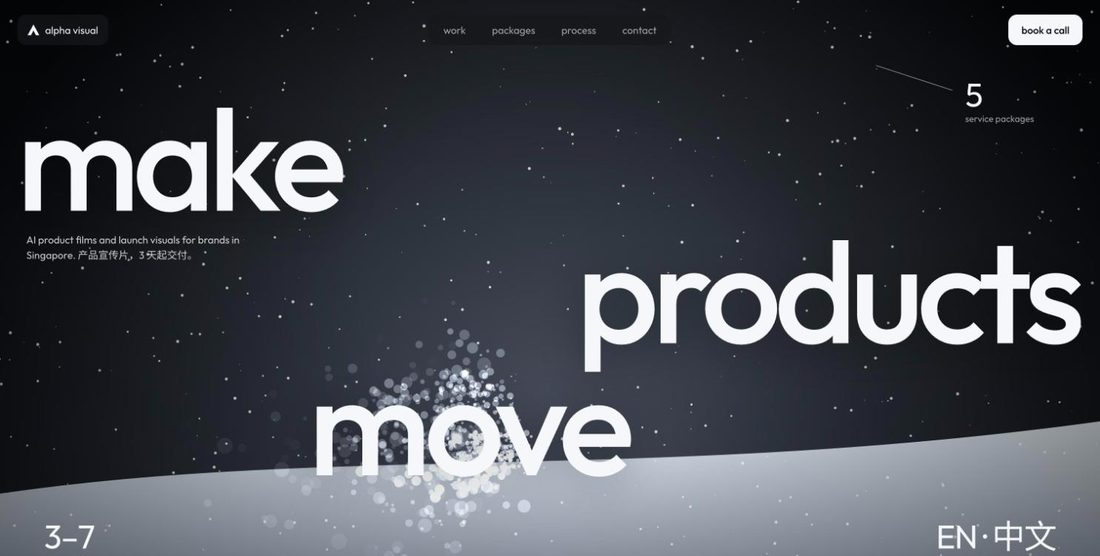
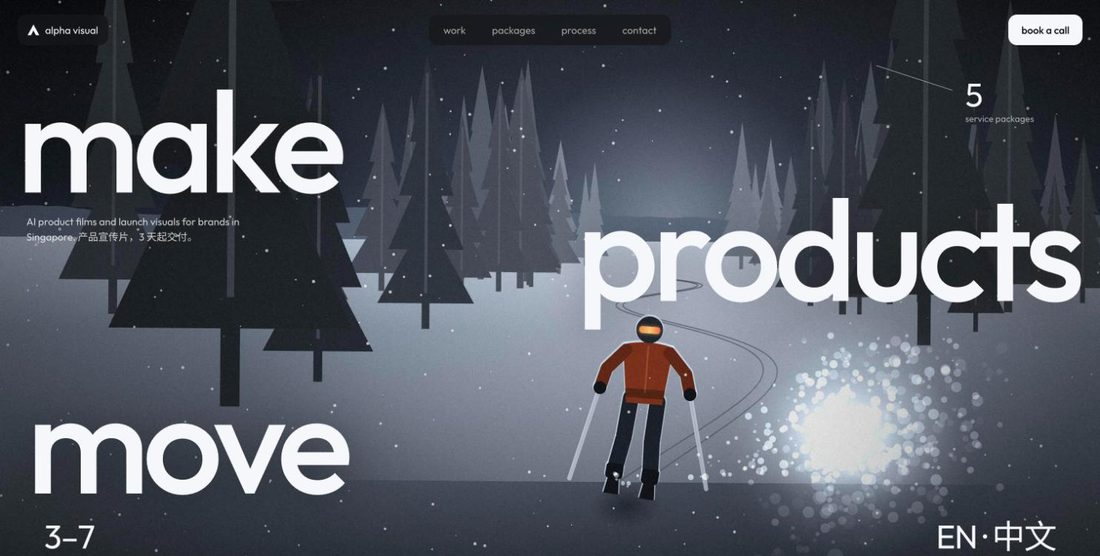
Update previews and card copy for refined pages
Claude-Session: https://claude.ai/code/session_01JwhuXBaEHTSnc6jh6wnX9Z

diff --git a/index.html b/index.html
@@ -111,17 +111,17 @@ a:focus-visible,button:focus-visible{outline:2px solid var(--accent);outline-off
     <a class="work" href="/work/reveal/">
       <span class="shot" data-src="/work/reveal/"><img src="/previews/reveal.jpg" alt="Before and After preview" loading="lazy"><span class="live-tag">Live</span></span>
       <span class="meta"><span><h2>Before / After</h2><span class="kind">Product visual · Cursor reveal</span></span><span class="open">Open ↗</span></span>
-      <p class="desc">A plain studio shot of a bottle. Move the cursor and a lens uncovers the finished campaign image underneath.</p>
+      <p class="desc">A client’s plain studio photo of a whisky bottle. The cursor lens uncovers the finished campaign shot: tumbler, smoke and embers.</p>
     </a>
     <a class="work" href="/work/motion/">
       <span class="shot" data-src="/work/motion/"><img src="/previews/motion.jpg" alt="Make Products Move preview" loading="lazy"><span class="live-tag">Live</span></span>
       <span class="meta"><span><h2>Make Products Move</h2><span class="kind">Product film hero · Canvas</span></span><span class="open">Open ↗</span></span>
-      <p class="desc">A night scene of drifting snow and spray behind oversized type, with a slot ready for a real product film.</p>
+      <p class="desc">A skier carving S-turns through night powder, spray at every turn, with a slot ready for a real product film.</p>
     </a>
     <a class="work" href="/work/process/">
       <span class="shot" data-src="/work/process/"><img src="/previews/process.jpg" alt="Process page preview" loading="lazy"><span class="live-tag">Live</span></span>
       <span class="meta"><span><h2>Process</h2><span class="kind">Service page · Long scroll</span></span><span class="open">Open ↗</span></span>
-      <p class="desc">A neon bottle over a magenta night sky, then the four steps from first brief to launch in seven days.</p>
+      <p class="desc">A 3D bottle on a turntable that turns with the cursor, then the four steps from brief to launch.</p>
     </a>
     <a class="work" href="/work/archive/">
       <span class="shot" data-src="/work/archive/"><img src="/previews/archive.jpg" alt="Archive preview" loading="lazy"><span class="live-tag">Live</span></span>
